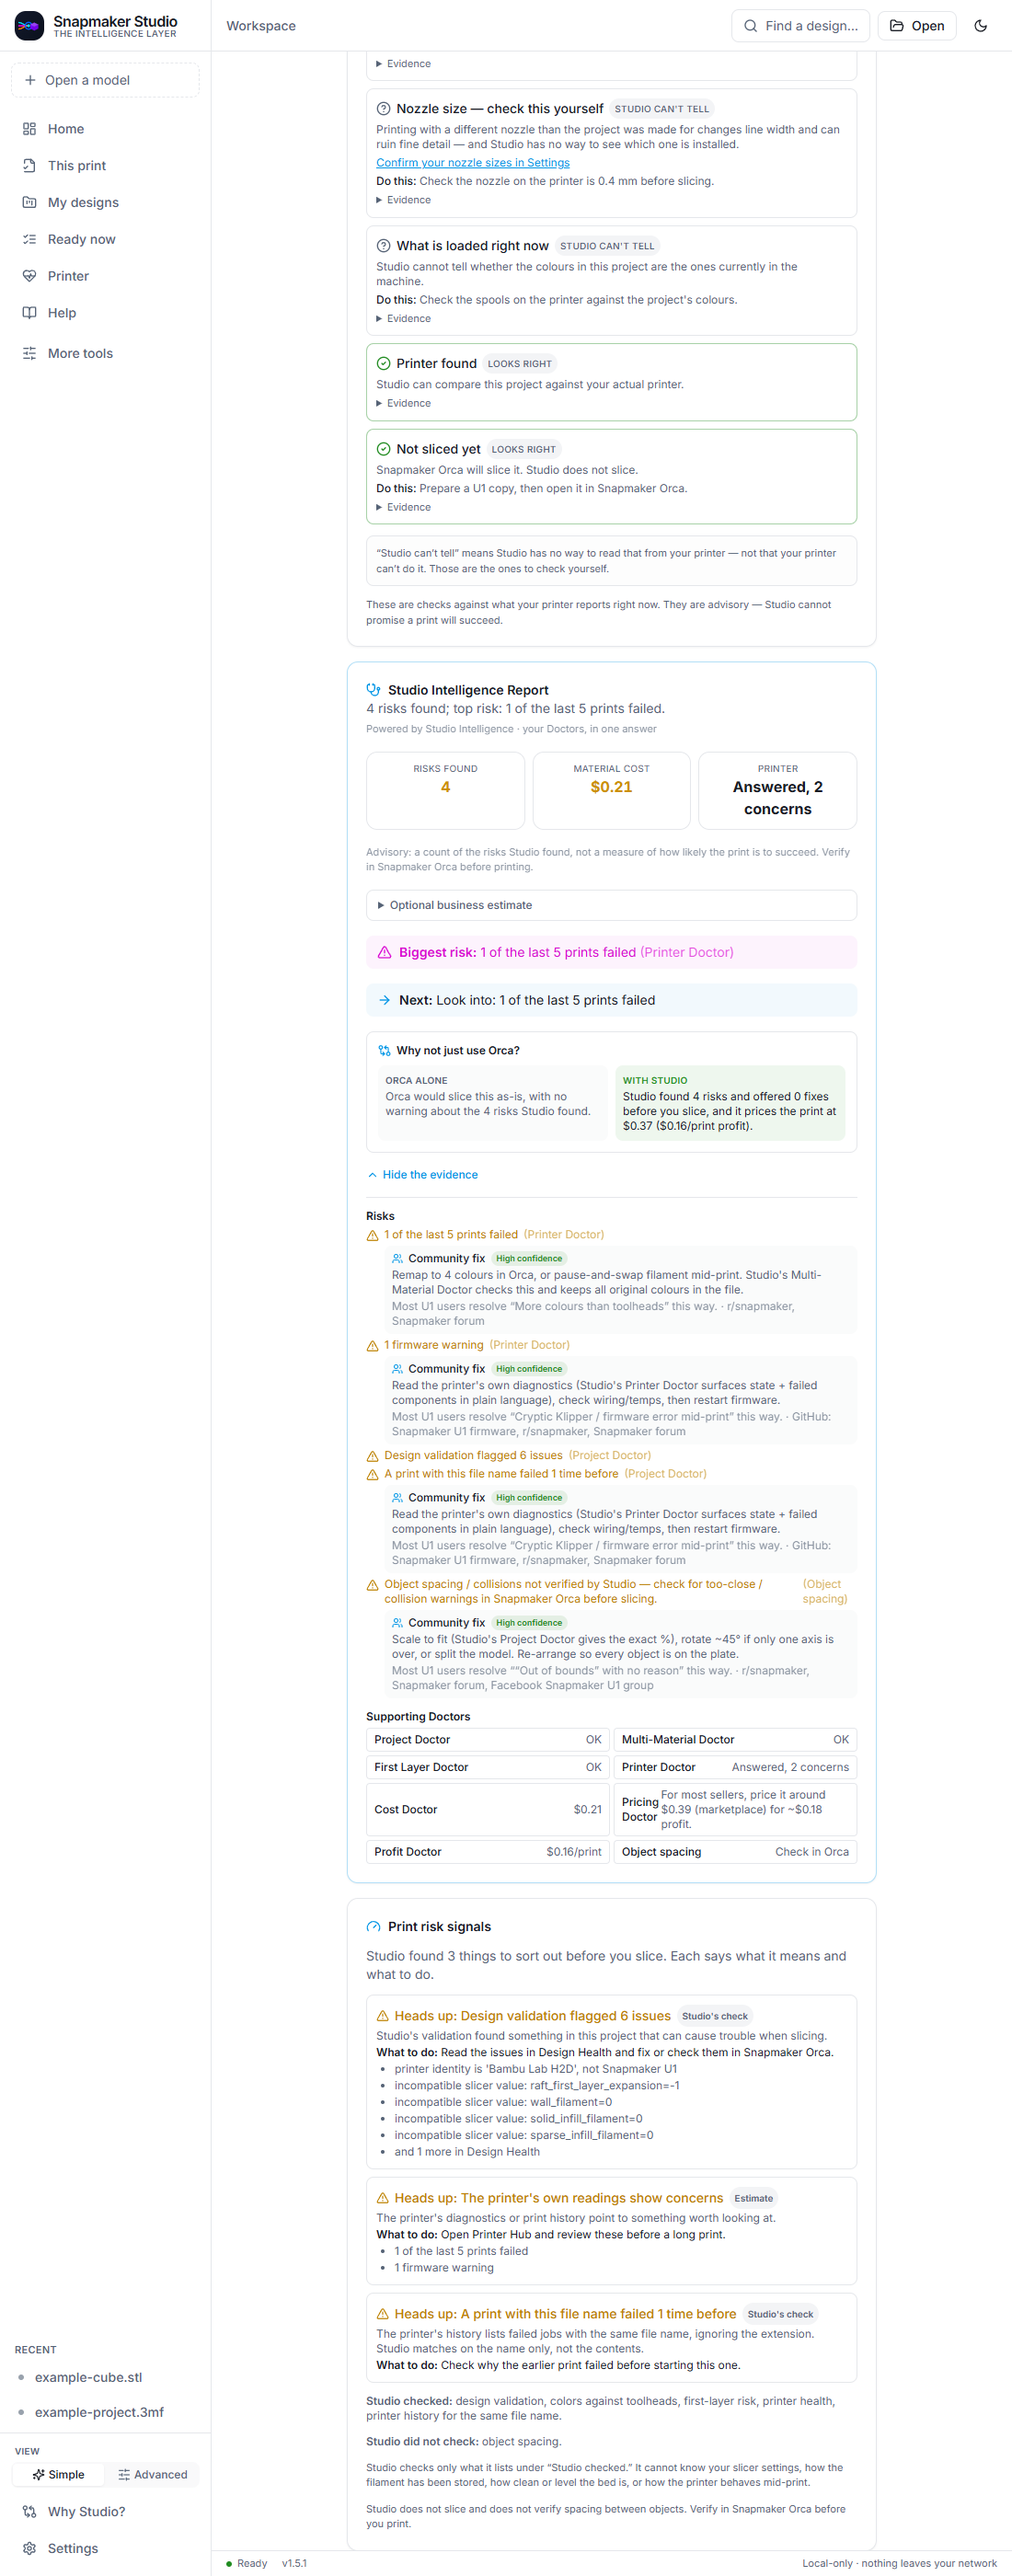
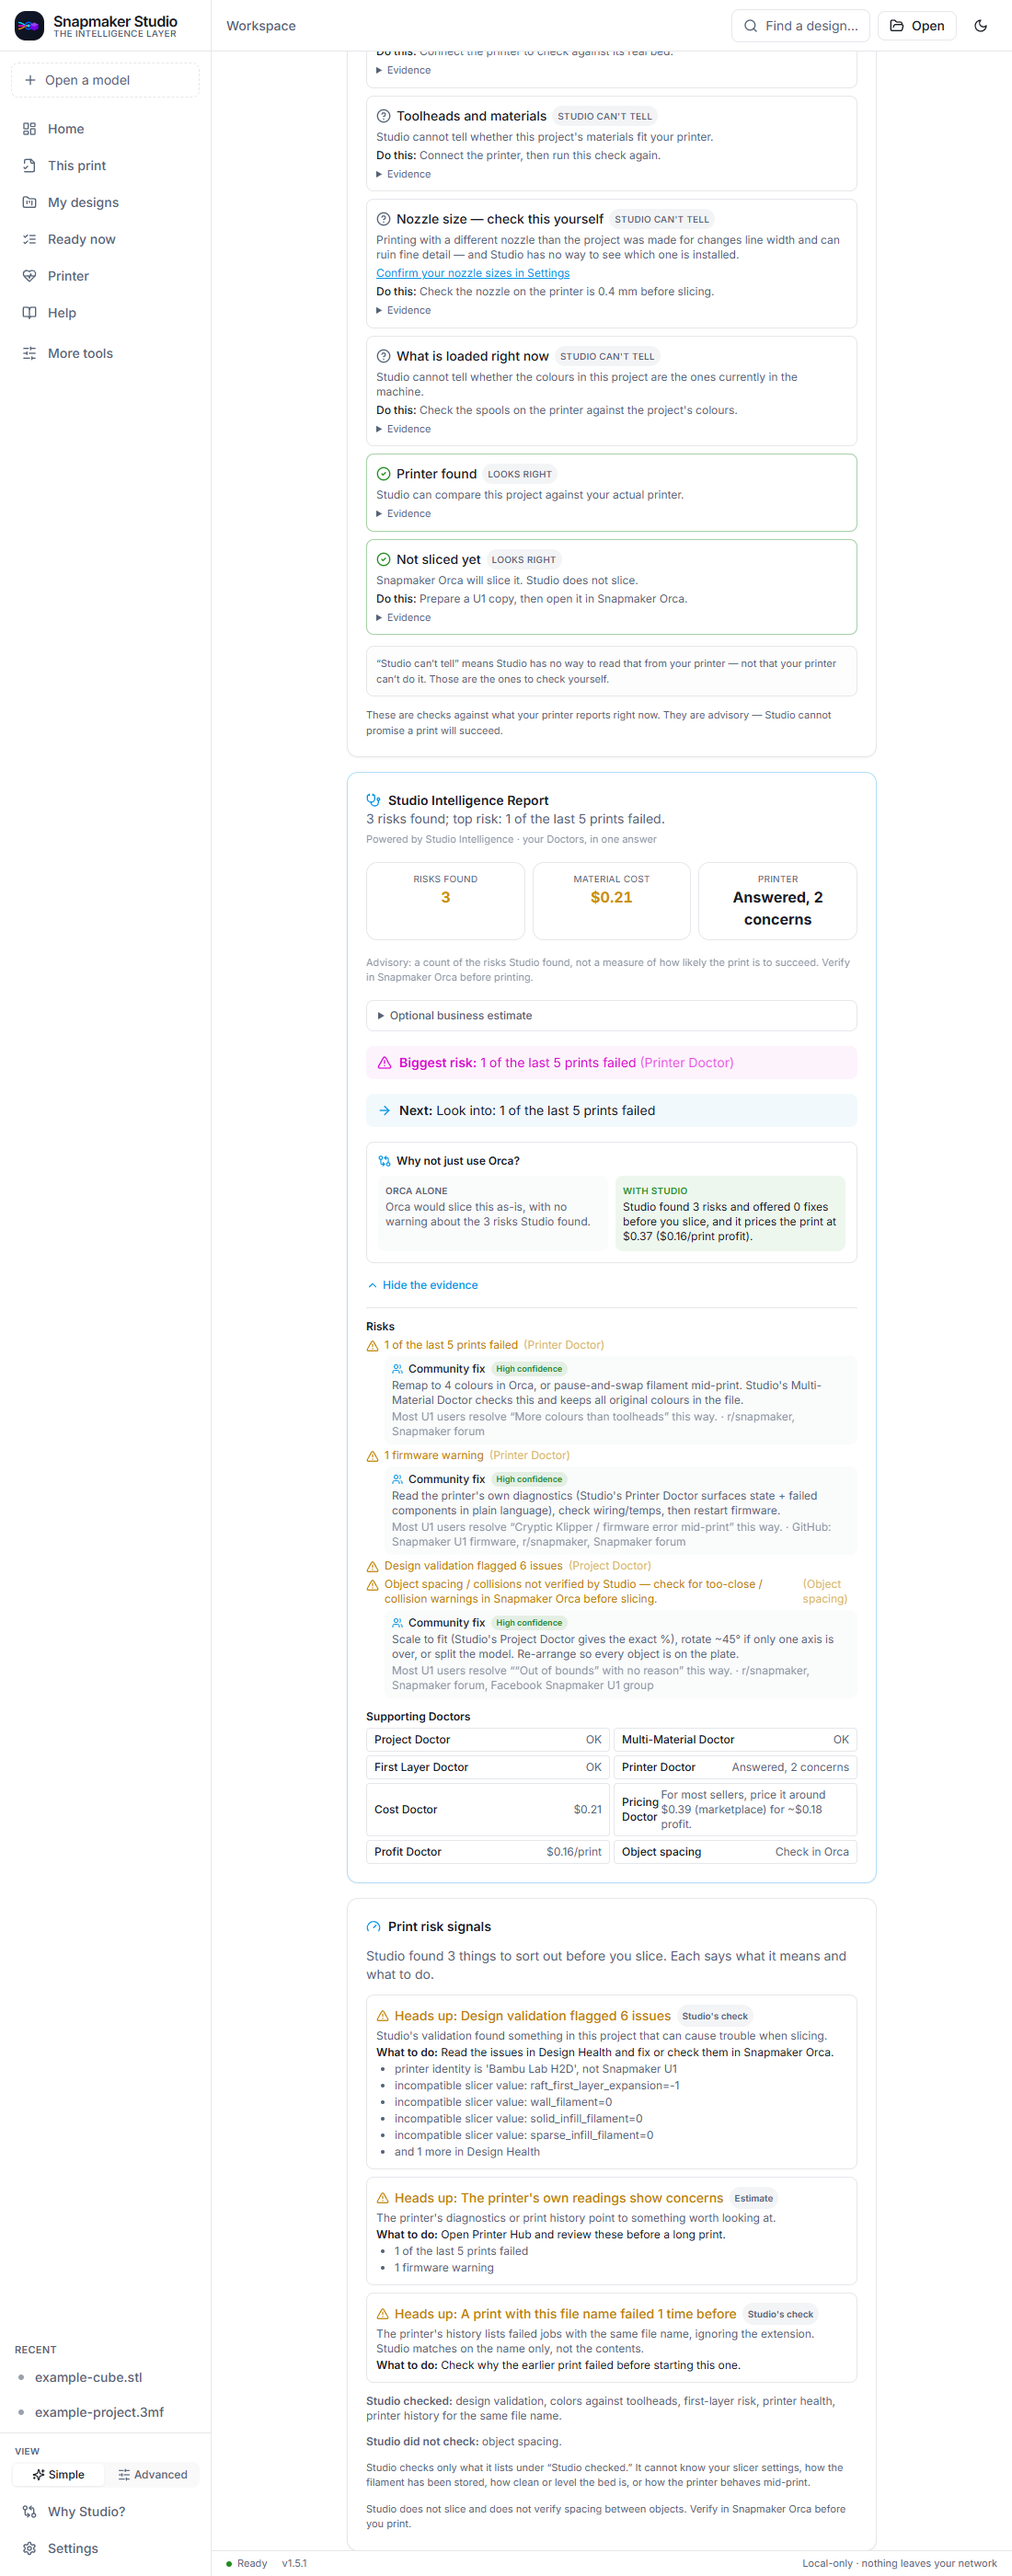
fix(#92): printer verdict has no number or 'good to print'; failures counted once; per-reason guide ref errors
health_score verdict drops N/100 and 'good to print'; a failed print is not counted by both the
file signal and the printer failure driver; unknown object count says so; stale docstrings; fake
printer reports listen errors; the guide builder names why a source ref does not resolve and the
negative tests assert each reason.

Verified: pytest 2946 passed 49 skipped; vitest 864 passed; tsc clean; guide check 50/50, e2e 1462/1462; Edge 30/30.

Changed region(s): [[0.34, 0.0, 0.8036, 0.6214], [0.68, 0.2486, 0.8036, 0.3729], [0.7727, 0.0311, 0.8036, 0.0621]]

diff --git a/backend/tests/test_guide_claims.py b/backend/tests/test_guide_claims.py
@@ -315,18 +315,18 @@ def test_build_rejects_invalid_answers_and_source_refs():
         answers_path.write_text(json.dumps(original), encoding="utf-8")   # undo the answer mutations above
         control = build_with(tag + "desktop/src/lib/fidelity.ts#FIDELITY_HEADINGS")
         assert control.returncode == 0, control.stderr
-        for reason, ref in [
-            ("missing file", tag + "backend/DOES_NOT_EXIST.py"),
-            ("missing fragment", tag + "desktop/src/lib/fidelity.ts#DOES_NOT_EXIST"),
-            ("parent traversal", tag + "../backend/snapstudio_core/rules.py"),
-            ("absolute path under the right tag", tag + "/absolute/backend/snapstudio_core/rules.py"),
-            ("moving branch, not a tag", "https://github.com/DVOpenLabs/snapmaker-studio/blob/main/backend/snapstudio_core/rules.py"),
-            ("bare absolute path", "/absolute/backend/snapstudio_core/rules.py"),
-            ("unknown @link", "@does_not_exist"),
+        for reason, ref, expected in [
+            ("missing file", tag + "backend/DOES_NOT_EXIST.py", "file not in the repository"),
+            ("missing fragment", tag + "desktop/src/lib/fidelity.ts#DOES_NOT_EXIST", "fragment not found in the file"),
+            ("parent traversal", tag + "../backend/snapstudio_core/rules.py", "parent-directory traversal"),
+            ("absolute path under the right tag", tag + "/absolute/backend/snapstudio_core/rules.py", "absolute path"),
+            ("moving branch, not a tag", "https://github.com/DVOpenLabs/snapmaker-studio/blob/main/backend/snapstudio_core/rules.py", "moving branch, not a release tag"),
+            ("bare absolute path", "/absolute/backend/snapstudio_core/rules.py", "not a URL"),
+            ("unknown @link", "@does_not_exist", "unknown link key"),
         ]:
             res = build_with(ref)
             assert res.returncode != 0, reason
-            assert "source ref does not resolve to this release" in res.stderr and ref in res.stderr, (reason, res.stderr)
+            assert f"source ref does not resolve to this release ({expected}): {ref}" in res.stderr, (reason, res.stderr)
         path_path.write_text(json.dumps(path_data), encoding="utf-8")
 
 

diff --git a/backend/snapstudio_core/intelligence_report.py b/backend/snapstudio_core/intelligence_report.py
@@ -2,11 +2,11 @@
 
 Every Doctor answers one question. A user shouldn't have to read seven cards to
 know where they stand. This synthesises them into a single screen's worth of
-answer: a Studio Intelligence Score, the money headline, the biggest risk, and
+answer: the risks found, the money headline, the biggest risk, and
 the one next action — with each Doctor's finding as supporting evidence.
 
 Pure synthesis over already-computed Doctor dicts (no network, no fabrication):
-it scores only what's present, surfaces real findings, and stays honest about
+it uses only what's present, surfaces real findings, and stays honest about
 what it can't yet see.
 """
 from __future__ import annotations
@@ -114,6 +114,9 @@ def build(predict=None, bed_fit=None, mm=None, first_layer=None, health=None,
         for sig in (predict.get("signals") or []):
             if sig.get("id") == "printer-health":
                 continue   # the same drivers are already listed as Printer Doctor risks
+            if sig.get("id") == "repeat-failure" and any(
+                    "prints failed" in str(d) for d in ((health or {}).get("drivers") or [])):
+                continue   # the same failed jobs are already counted by the Printer Doctor's failure driver
             risks.append({"doctor": "Project Doctor",
                           "level": "risk" if sig.get("level") == "risk" else "warn",
                           "text": sig.get("title") or ""})

diff --git a/backend/tests/test_intelligence_report.py b/backend/tests/test_intelligence_report.py
@@ -236,3 +236,23 @@ def test_unverified_spacing_is_never_reported_as_found_nothing():
     assert "found no risks. That" not in out["verdict"]
     assert out["next_action"].startswith("Look into:")
     assert "Address:" not in out["next_action"]
+
+
+def test_a_failed_print_is_counted_once_not_by_both_the_file_signal_and_the_health_driver():
+    out = ir.build(
+        predict={"available": True, "signals": [
+            {"id": "repeat-failure", "level": "warn", "title": "A print with this file name failed 1 time before"}]},
+        health={"available": True, "drivers": ["1 of the last 5 prints failed"]},
+    )
+    assert out["risks_found"] == 1
+    # with no printer-wide failure driver the file-specific signal still counts
+    solo = ir.build(predict={"available": True, "signals": [
+        {"id": "repeat-failure", "level": "warn", "title": "A print with this file name failed 1 time before"}]})
+    assert solo["risks_found"] == 1
+
+
+def test_health_verdict_has_no_number_or_good_to_print():
+    from snapstudio_core import health_score
+    for failures in (None, {"available": True, "failure_rate": 0.5, "failed": 5, "total": 10, "recent_failure_streak": 0}):
+        v = health_score.score(diagnostics={"klippy_state": "ready", "warnings": [], "failed_components": []}, failures=failures)["verdict"]
+        assert not re.search(r"[0-9]|good to print|healthy", v.lower()), v

diff --git a/backend/snapstudio_core/health_score.py b/backend/snapstudio_core/health_score.py
@@ -94,7 +94,7 @@ def score(diagnostics=None, failures=None) -> dict:
 
 def _verdict(value: int, grade: str) -> str:
     if grade in ("A", "B"):
-        return f"Healthy ({value}/100) — good to print."
+        return "Nothing concerning in the printer's own readings."
     if grade == "C":
-        return f"Usable ({value}/100), but worth a check before a long print."
-    return f"Needs attention ({value}/100) — fix the issues below before the next print."
+        return "Worth a check before a long print."
+    return "The printer's own readings show concerns; see the list below."

diff --git a/backend/snapstudio_core/compatibility.py b/backend/snapstudio_core/compatibility.py
@@ -164,7 +164,8 @@ def check(path: str) -> dict:
             "Object layout (plate)",
             "Open in Snapmaker Orca and check for too-close / collision warnings; use "
             "Arrange or move objects before slicing.",
-            f"{oc} object(s) on the plate; spacing unchecked by Studio",
+            (f"{oc} object(s) on the plate; spacing unchecked by Studio" if oc
+             else "object count unknown; spacing unchecked by Studio"),
         ))
 
     # Support enforcers present but support generation disabled — Orca warns
